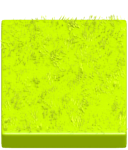
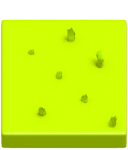
better trees, better desserts, better gras

diff --git a/js/controllers.js b/js/controllers.js
@@ -15,13 +15,13 @@ function mapController($scope, angularFire) {
   $scope.terrains = {
     dessert:{
       id:'dessert',
-      art:[terrainAssetPath+"dessert_0.png"],
+      art:[terrainAssetPath+"dessert_0.png", terrainAssetPath+"dessert_1.png", terrainAssetPath+"dessert_2.png"],
       terrainVariant:0,
       label:'dessert'
     },
     plain:{
       id:'plain',
-      art:[terrainAssetPath+"plain_0.png"],
+      art:[terrainAssetPath+"plain_0.png", terrainAssetPath+"plain_1.png"],
       terrainVariant:0,
       label:'plain'
     },
@@ -45,9 +45,15 @@ function mapController($scope, angularFire) {
     },
     forrest:{
       id:'forrest',
-      art:[terrainAssetPath+"forrest_0.png"],
+      art:[terrainAssetPath+"forrest_0.png", terrainAssetPath+"forrest_1.png", terrainAssetPath+"forrest_2.png"],
       terrainVariant:0,
       label:'forrest'
+    },
+    pineForrest:{
+      id:'pineForrest',
+      art:[terrainAssetPath+"needle_0.png", terrainAssetPath+"needle_1.png", terrainAssetPath+"needle_2.png"],
+      terrainVariant:0,
+      label:'pine forrest'
     },
     road:{
       id:'road',
